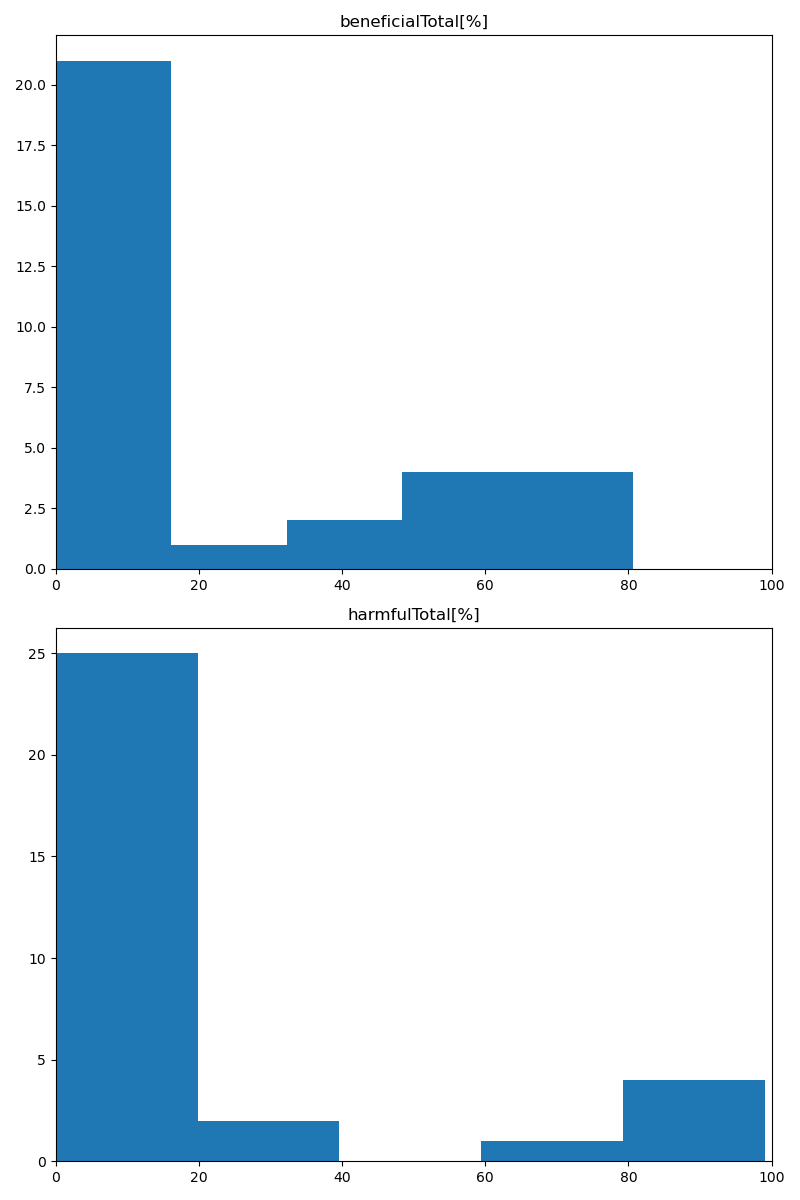
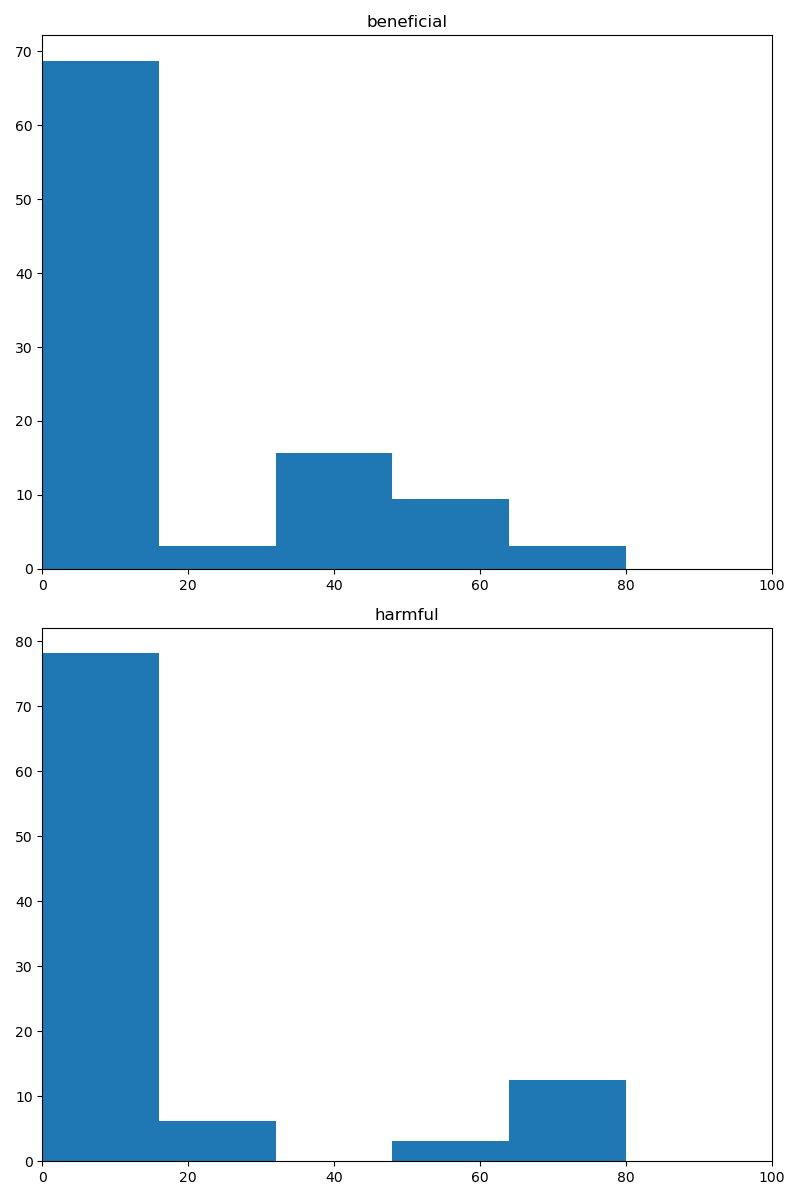
Update the code - PlotDistribution

diff --git a/vaginal_pcr_update_reference.py b/vaginal_pcr_update_reference.py
@@ -8,7 +8,6 @@ import numpy as np
 from scipy.stats import percentileofscore, pearsonr
 import matplotlib.pyplot as plt
 
-
 # Check if the script is being called with the correct arguments
 if len(sys.argv) < 2:
     print("Usage: python Script.py <path_exp>")
@@ -47,9 +46,10 @@ def save_histograms_to_file(df, filename):
     num_rows = df.shape[1]
     fig, axs = plt.subplots(num_rows, 1, figsize=(8, 6*num_rows))
     
-    for i in range(num_rows):
-        axs[i].hist(df.iloc[:,i], bins=5)
-        axs[i].set_title(df.columns.to_list()[i])
+    for i in range(num_rows):           
+        data = df.iloc[:,i]
+        axs[i].hist(data, weights=np.ones(len(data)) / len(data)*100, bins=5)
+        axs[i].set_title(df.columns.to_list()[i][:-8])
         axs[i].set_xlim([0, 100])
         
     plt.tight_layout()
@@ -222,6 +222,19 @@ class VaginalPCRUpdateRef:
               
             self.df_db_rev['harmfulTotal[%]'] = (self.df_db_rev['G_vaginalis'] + self.df_db_rev['F_vaginae'] + self.df_db_rev['BVAB-1'])*100             
 
+            for col in ['beneficialTotal[%]', 'harmfulTotal[%]']:
+                
+                conditions = [
+                    self.df_db_rev[col] >= 80,
+                    (self.df_db_rev[col] > 60) & (self.df_db_rev[col] < 80),
+                    (self.df_db_rev[col] > 40) & (self.df_db_rev[col] <= 60),
+                    (self.df_db_rev[col] > 20) & (self.df_db_rev[col] <= 40),
+                    self.df_db_rev[col] <= 20
+                ]
+
+                values = [80, 60, 40, 20, 0]     
+
+                self.df_db_rev[col] = np.select(conditions, values)  
             # Histogram Plot - mrs 
             save_histograms_to_file(self.df_db_rev[['beneficialTotal[%]', 'harmfulTotal[%]']], self.path_hist)
                         
